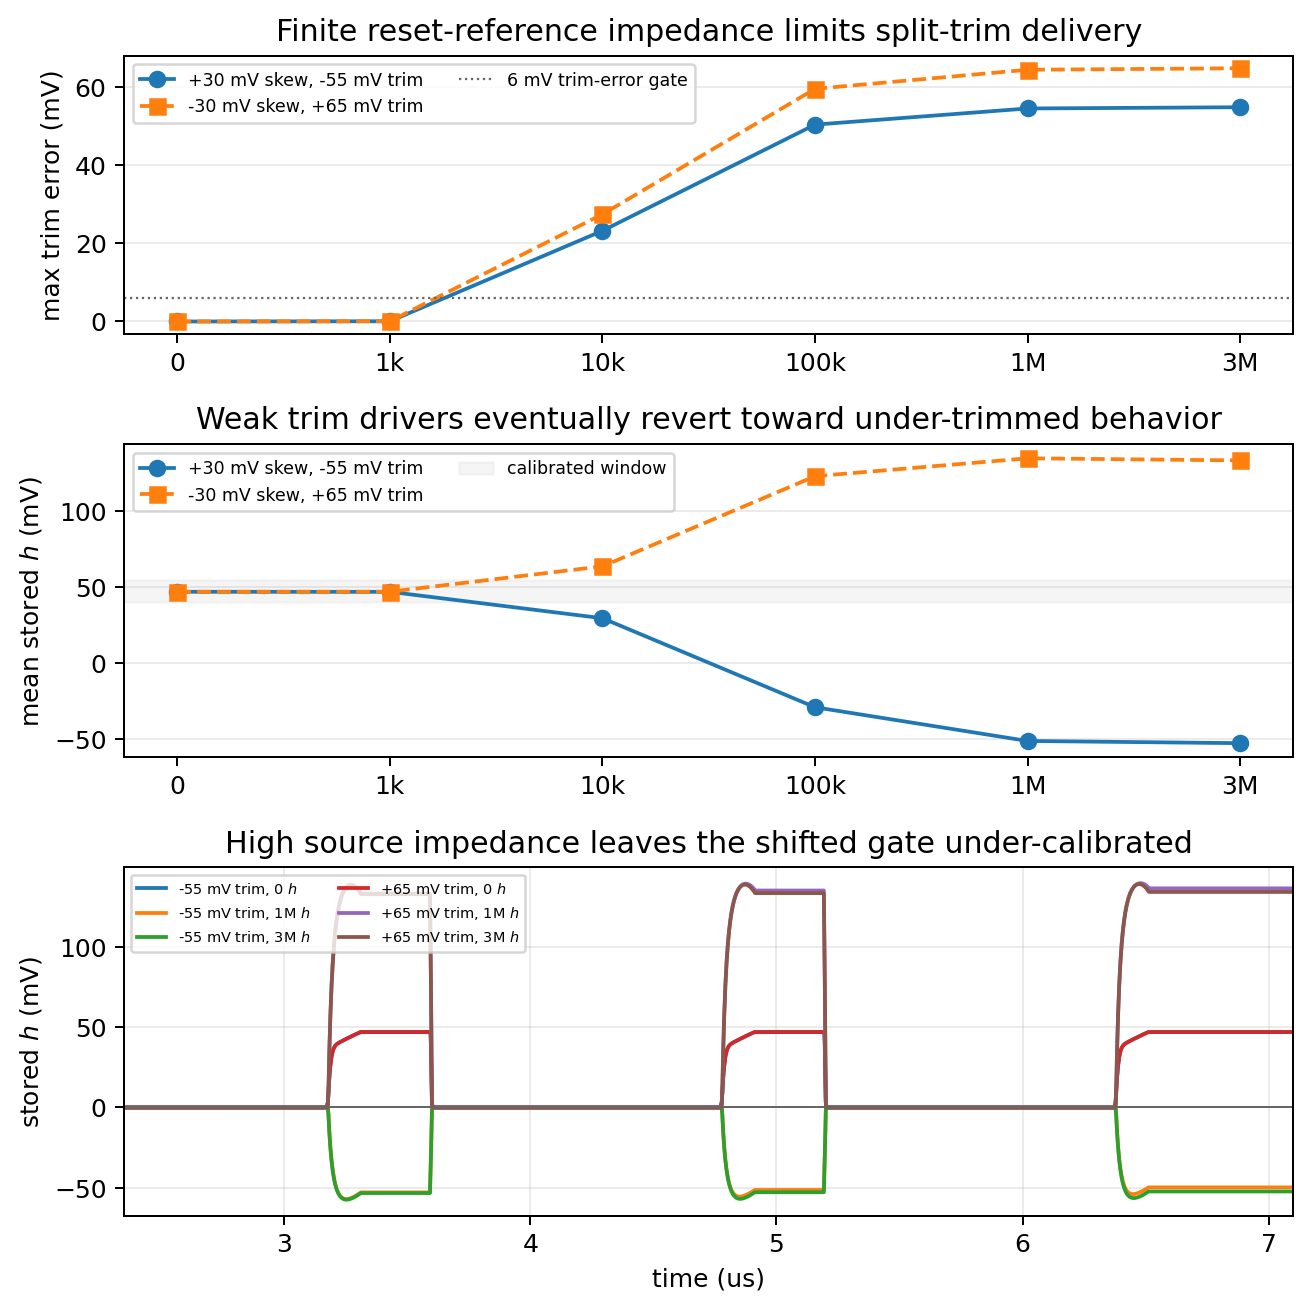
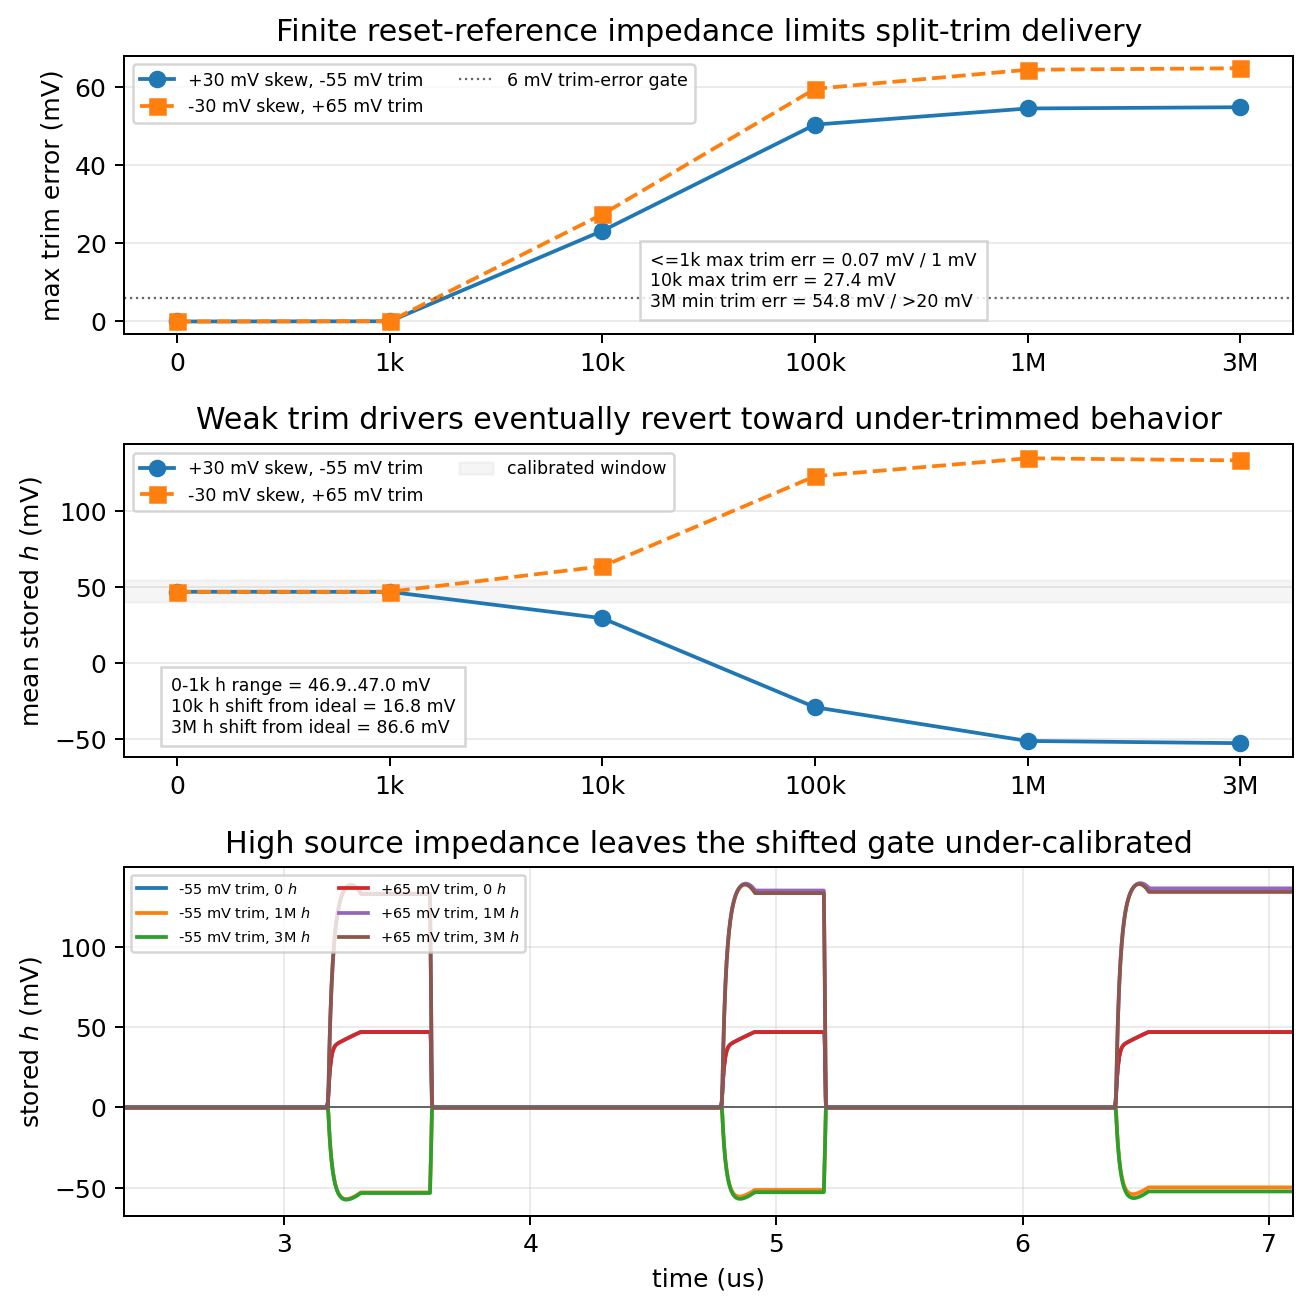
Annotate reset reference impedance limits

Changed region(s): [[0.4882, 0.1833, 0.7628, 0.2445], [0.122, 0.4889, 0.3661, 0.5806]]

diff --git a/spice/run_mos_cell_characterization.py b/spice/run_mos_cell_characterization.py
@@ -14722,6 +14722,19 @@ quit
     shift_refz_axes[0].set_ylabel("max trim error (mV)")
     shift_refz_axes[0].set_title("Finite reset-reference impedance limits split-trim delivery")
     shift_refz_axes[0].grid(True, axis="y", alpha=0.25)
+    shift_refz_axes[0].text(
+        0.45,
+        0.10,
+        "<=1k max trim err = "
+        f"{1e3 * np.max(shift_refz_trim_error[:, :2]):.2f} mV / 1 mV\n"
+        "10k max trim err = "
+        f"{1e3 * np.max(shift_refz_trim_error[:, 2]):.1f} mV\n"
+        "3M min trim err = "
+        f"{1e3 * np.min(shift_refz_trim_error[:, -1]):.1f} mV / >20 mV",
+        transform=shift_refz_axes[0].transAxes,
+        fontsize="x-small",
+        bbox={"facecolor": "white", "alpha": 0.82, "edgecolor": "0.8"},
+    )
     shift_refz_axes[0].legend(loc="upper left", ncol=2, fontsize="x-small")
     for branch_idx, (_branch_name, branch_label, _nfp, _nfm, _trim) in enumerate(shift_reset_branch_specs):
         marker = "o-" if branch_idx == 0 else "s--"
@@ -14737,6 +14750,19 @@ quit
     shift_refz_axes[1].set_ylabel("mean stored $h$ (mV)")
     shift_refz_axes[1].set_title("Weak trim drivers eventually revert toward under-trimmed behavior")
     shift_refz_axes[1].grid(True, axis="y", alpha=0.25)
+    shift_refz_axes[1].text(
+        0.04,
+        0.08,
+        "0-1k h range = "
+        f"{1e3 * np.min(shift_refz_h_mean[:, :2]):.1f}..{1e3 * np.max(shift_refz_h_mean[:, :2]):.1f} mV\n"
+        "10k h shift from ideal = "
+        f"{1e3 * np.min(np.abs(shift_refz_h_mean[:, 2] - shift_refz_h_mean[:, 0])):.1f} mV\n"
+        "3M h shift from ideal = "
+        f"{1e3 * np.min(np.abs(shift_refz_h_mean[:, -1] - shift_refz_h_mean[:, 0])):.1f} mV",
+        transform=shift_refz_axes[1].transAxes,
+        fontsize="x-small",
+        bbox={"facecolor": "white", "alpha": 0.82, "edgecolor": "0.8"},
+    )
     shift_refz_axes[1].legend(loc="upper left", ncol=2, fontsize="x-small")
     for branch_label, case_label, rzt, load, store in shift_refz_traces:
         if case_label in {"100k"}:

diff --git a/engineering_log.md b/engineering_log.md
@@ -2,6 +2,18 @@
 
 ## 2026-05-25
 
+- Clarified the shifted-gate reset-reference source-impedance limit plot.  The
+  ngspice deck sweeps ideal through \(3\)M trim-reference source impedance
+  and already asserted that \(0\)--\(1\)k preserves split trim below \(1\) mV
+  error and calibrated activation, \(10\)k visibly perturbs first-cycle
+  activation, and megaohm sources visibly fail to deliver the trim.  The
+  regenerated
+  `mos_hidden_writer_restored_gate_hybrid_update_forward_guard_forward_pair_96u_shifted_gate_reset_ref_impedance_ngspice`
+  plot now labels those measured limits: \(0\)--\(1\)k max trim error
+  \(0.07\) mV, \(10\)k max trim error \(27.4\) mV, \(3\)M minimum trim error
+  \(54.8\) mV, calibrated \(0\)--\(1\)k activation range \(46.9\)--\(47.0\)
+  mV, \(10\)k activation shift \(16.8\) mV, and \(3\)M activation shift
+  \(86.6\) mV.
 - Fixed the shifted-gate reset-switch-corner plot's unit readability.  The
   ngspice deck sweeps reset transmission-gate threshold corners and already
   asserted calibrated split-trim error below \(8\) mV, shifted-gate common
